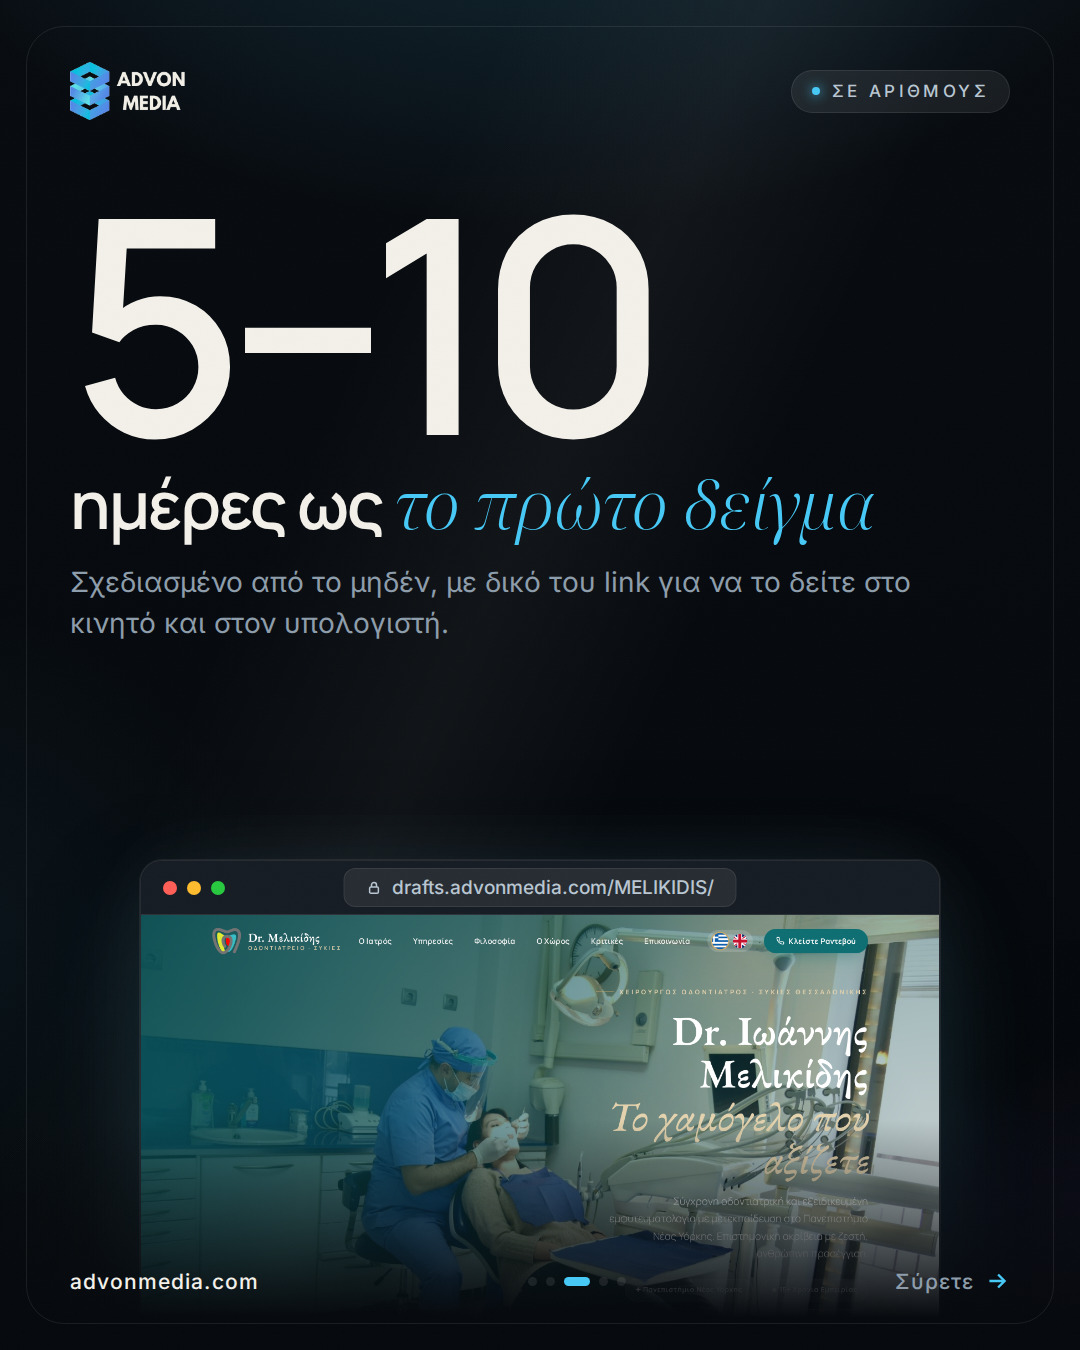
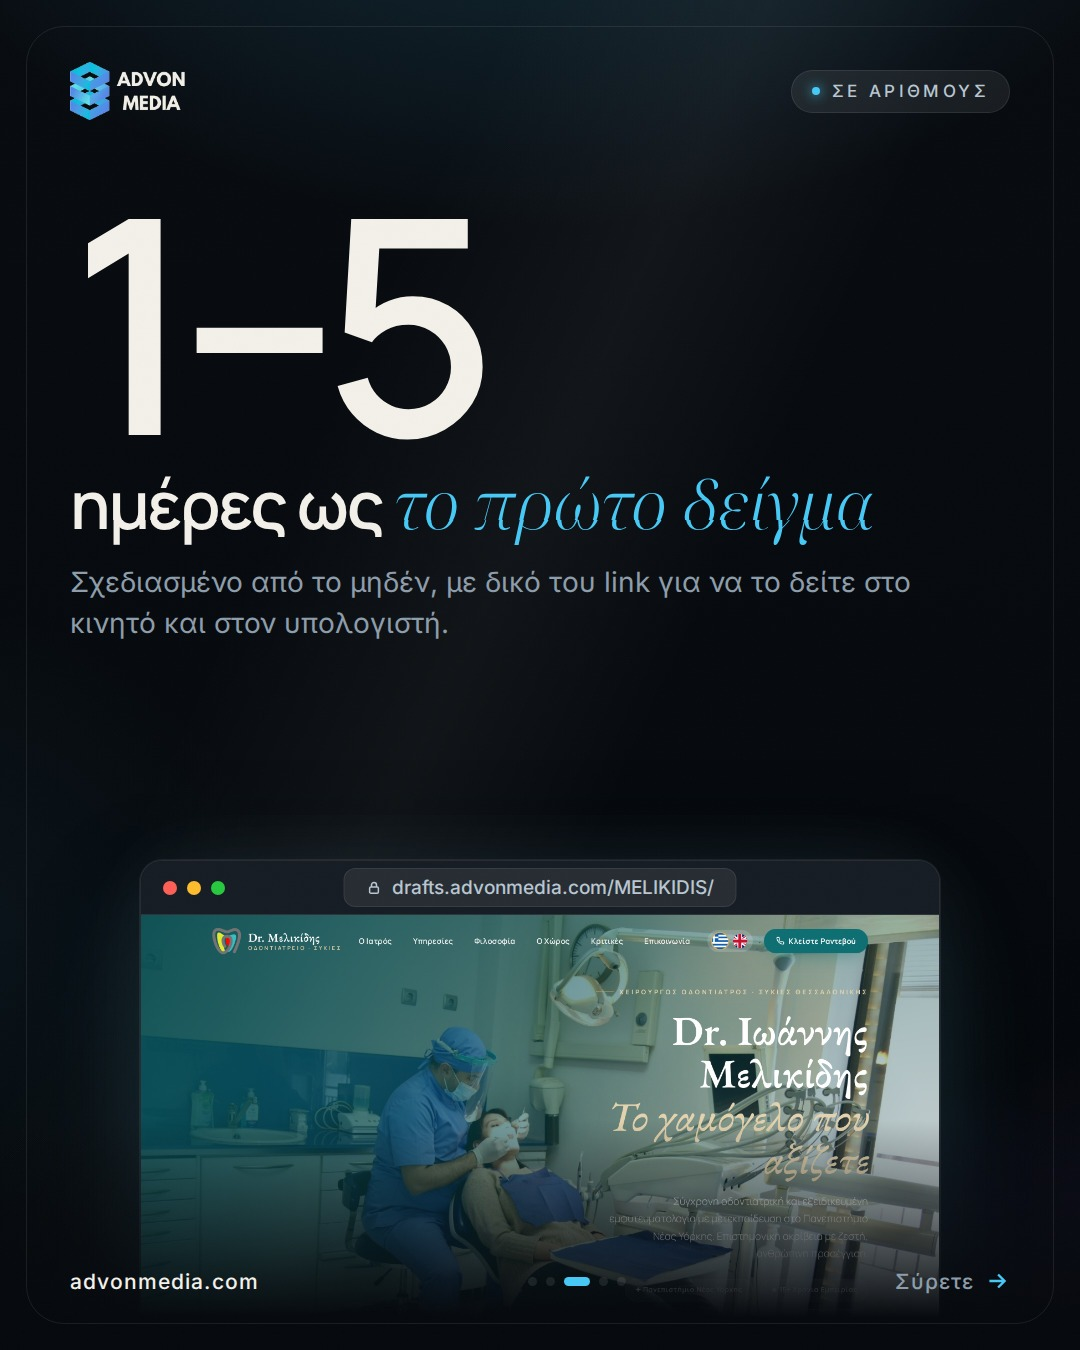
First draft in 1–5 days: upcoming posts (23/11, 27/11, 1/12 captions + slides), SALES caption, presentation, e-mail templates page, services mockup
Claude-Session: https://claude.ai/code/session_01TAdDcrqSjTu2negiLXHGpV

diff --git a/parousiasi/index.html b/parousiasi/index.html
@@ -638,7 +638,7 @@ button{font-family:inherit;cursor:pointer}
 <section class="sl" data-id="timeline" data-note="Από τη στιγμή που έχουμε το υλικό, σε 4 έως 10 ημέρες στέλνουμε το πρώτο draft. Εκεί μας στέλνετε όλες τις αλλαγές που θέλετε, όσες θέλετε. Όταν είστε ευχαριστημένοι, αγοράζουμε και συνδέουμε το domain και ανεβαίνει." data-transition="fade" style="background:radial-gradient(ellipse at 15% 0%, #123a52 0%, #0b0c10 62%);color:#f4f3ef;font-family:'Manrope', Arial, sans-serif;padding:112px 128px 112px;display:flex;flex-direction:column;justify-content:space-between;gap:40px">
 <div style="display:flex;flex-direction:column;gap:20px">
 <p style="font-size:26px;font-weight:700;letter-spacing:4px;color:#47c8f5">ΠΩΣ ΠΡΟΧΩΡΑΜΕ</p>
-<h2 style="font-size:84px;font-weight:800;letter-spacing:-2px;line-height:1.05;color:#f4f3ef">Το πρώτο draft σε <span style="color:#47c8f5">4–10 ημέρες</span></h2>
+<h2 style="font-size:84px;font-weight:800;letter-spacing:-2px;line-height:1.05;color:#f4f3ef">Το πρώτο draft σε <span style="color:#47c8f5">1–5 ημέρες</span></h2>
 <p style="font-size:36px;line-height:1.4;color:#aab6c2;width:1400px">Μετά μας στέλνετε όλες τις αλλαγές που θέλετε — και τις κάνουμε, μέχρι να σας αρέσει.</p>
 </div>
 <div style="display:flex;flex-direction:row;gap:32px">
@@ -649,7 +649,7 @@ button{font-family:inherit;cursor:pointer}
 </div>
 <div style="flex:1;display:flex;flex-direction:column;gap:16px;background:linear-gradient(150deg, #47c8f5, #5b7cf0);border-radius:24px;padding:36px;box-shadow:0 30px 70px rgba(71,200,245,0.25)">
 <p style="font-size:26px;font-weight:800;color:#0b0c10">ΒΗΜΑ 2</p>
-<h3 style="font-size:44px;font-weight:800;color:#0b0c10">4–10 ημέρες</h3>
+<h3 style="font-size:44px;font-weight:800;color:#0b0c10">1–5 ημέρες</h3>
 <p style="font-size:28px;line-height:1.45;color:#0b1a26">Σας στέλνουμε το πρώτο draft: ολόκληρη την ιστοσελίδα σας, σε ένα link.</p>
 </div>
 <div style="flex:1;display:flex;flex-direction:column;gap:16px;background:rgba(255,255,255,0.06);border:1px solid rgba(255,255,255,0.14);border-radius:24px;padding:36px">
@@ -716,7 +716,7 @@ button{font-family:inherit;cursor:pointer}
 <section class="sl" data-id="closing" data-note="Κλείσιμο: τι χρειαζόμαστε (φωτογραφίες, λογότυπο αν υπάρχει) και πότε βλέπουν το πρώτο draft." data-transition="fade" style="background:radial-gradient(ellipse at 88% 8%, #123a52 0%, #0b0c10 58%);color:#f4f3ef;font-family:'Manrope', Arial, sans-serif;padding:128px;display:flex;flex-direction:column;justify-content:end;gap:36px">
 <img loading="lazy" decoding="async" src="img/advon-logo-light.png" alt="Advon Media" style="position:absolute;left:128px;top:96px;width:260px;height:131px;object-fit:contain">
 <h1 style="font-size:180px;font-weight:800;line-height:1;letter-spacing:-5px;color:#f4f3ef">Ξεκινάμε<span style="color:#47c8f5">;</span></h1>
-<p style="font-size:40px;line-height:1.35;color:#c7d0da;width:1400px">Στείλτε μας φωτογραφίες και λογότυπο — σε 4–10 ημέρες βλέπετε ολόκληρη την ιστοσελίδα σας.</p>
+<p style="font-size:40px;line-height:1.35;color:#c7d0da;width:1400px">Στείλτε μας φωτογραφίες και λογότυπο — σε 1–5 ημέρες βλέπετε ολόκληρη την ιστοσελίδα σας.</p>
 <div style="width:220px;height:8px;background:linear-gradient(90deg, #47c8f5, #5b7cf0);border-radius:4px"></div>
 <div style="display:flex;flex-direction:row;gap:48px;align-items:center">
 <p style="font-size:36px;font-weight:800;color:#f4f3ef">Άγγελος Μετρίδης</p>

diff --git a/emails/index.html b/emails/index.html
@@ -272,7 +272,7 @@ text:`Καλησπέρα {FULL},
 
 Αν θέλετε μπορείτε να μας στείλετε κάποια κατεύθυνση που θα θέλατε να ακολουθήσουμε, αλλίως μπορείτε να το αφήσετε πάνω μας!
 
-Γράφουμε τα κείμενα και στήνουμε όλη τη σελίδα σας, σας στέλνουμε μια ολοκληρωμένη καλή πρώτη εικόνα σε 5-10 ημέρες και μας λέτε ό,τι αλλαγές θα θέλατε να κάνουμε ώστε να γίνει ακριβώς όπως την έχετε στο μυαλό σας!
+Γράφουμε τα κείμενα και στήνουμε όλη τη σελίδα σας, σας στέλνουμε μια ολοκληρωμένη καλή πρώτη εικόνα σε 1-5 ημέρες και μας λέτε ό,τι αλλαγές θα θέλατε να κάνουμε ώστε να γίνει ακριβώς όπως την έχετε στο μυαλό σας!
 
 Είμαστε στη διάθεση σας για ότι χρειαστείτε
 

diff --git a/advon-social/services-mockup/index.html b/advon-social/services-mockup/index.html
@@ -21,7 +21,7 @@
 <div class="sub">Φιλοξενία 10,83€/μήνα · domain δώρο</div>
 <ul>
 <li>Σχεδιασμός από το μηδέν, ποτέ template</li>
-<li>Πρώτο δείγμα σε <b>4–10 ημέρες</b></li>
+<li>Πρώτο δείγμα σε <b>1–5 ημέρες</b></li>
 <li>Απεριόριστες αλλαγές μέχρι τη δημοσίευση</li>
 <li>Ελληνικά & Αγγλικά, έτοιμη για το Google</li>
 </ul>
